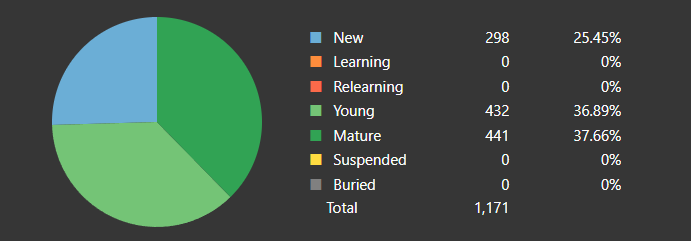
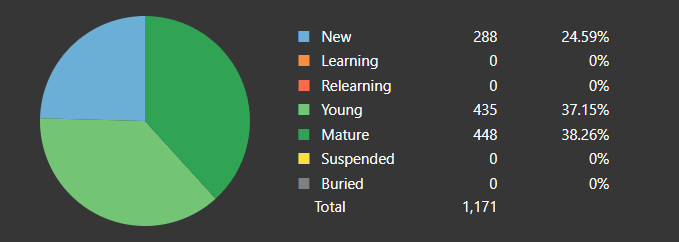
Deployed 3cc30b4 with MkDocs version: 1.5.3

diff --git a/index.html b/index.html
@@ -85,7 +85,7 @@
     <div data-md-component="skip">
       
         
-        <a href="#macro-rendering-error" class="md-skip">
+        <a href="#docjp-landing-page" class="md-skip">
           Skip to content
         </a>
       
@@ -378,6 +378,17 @@
         
       
       
+        <label class="md-nav__link md-nav__link--active" for="__toc">
+          
+  
+  <span class="md-ellipsis">
+    Home
+  </span>
+  
+
+          <span class="md-nav__icon md-icon"></span>
+        </label>
+      
       <a href="." class="md-nav__link md-nav__link--active">
         
   
@@ -387,6 +398,92 @@
   
 
       </a>
+      
+        
+
+<nav class="md-nav md-nav--secondary" aria-label="Table of contents">
+  
+  
+  
+    
+  
+  
+    <label class="md-nav__title" for="__toc">
+      <span class="md-nav__icon md-icon"></span>
+      Table of contents
+    </label>
+    <ul class="md-nav__list" data-md-component="toc" data-md-scrollfix>
+      
+        <li class="md-nav__item">
+  <a href="#anki-deck-card-counts" class="md-nav__link">
+    Anki Deck Card Counts
+  </a>
+  
+    <nav class="md-nav" aria-label="Anki Deck Card Counts">
+      <ul class="md-nav__list">
+        
+          <li class="md-nav__item">
+  <a href="#tango-n5-as-of-111123" class="md-nav__link">
+    Tango N5 as of 11/11/23
+  </a>
+  
+</li>
+        
+          <li class="md-nav__item">
+  <a href="#tango-n4-as-of-111123" class="md-nav__link">
+    Tango N4 as of 11/11/23
+  </a>
+  
+</li>
+        
+      </ul>
+    </nav>
+  
+</li>
+      
+        <li class="md-nav__item">
+  <a href="#grammar-learning" class="md-nav__link">
+    Grammar Learning
+  </a>
+  
+    <nav class="md-nav" aria-label="Grammar Learning">
+      <ul class="md-nav__list">
+        
+          <li class="md-nav__item">
+  <a href="#things-i-need-to-work-on-currently" class="md-nav__link">
+    Things I need to work on currently
+  </a>
+  
+    <nav class="md-nav" aria-label="Things I need to work on currently">
+      <ul class="md-nav__list">
+        
+          <li class="md-nav__item">
+  <a href="#grammar" class="md-nav__link">
+    Grammar
+  </a>
+  
+</li>
+        
+      </ul>
+    </nav>
+  
+</li>
+        
+          <li class="md-nav__item">
+  <a href="#jfz-book-3-lesson-page-numbers-no-directory-on-kindle" class="md-nav__link">
+    JFZ Book 3 Lesson Page Numbers (No Directory on kindle)
+  </a>
+  
+</li>
+        
+      </ul>
+    </nav>
+  
+</li>
+      
+    </ul>
+  
+</nav>
       
     </li>
   
@@ -1808,6 +1905,81 @@
     
   
   
+    <label class="md-nav__title" for="__toc">
+      <span class="md-nav__icon md-icon"></span>
+      Table of contents
+    </label>
+    <ul class="md-nav__list" data-md-component="toc" data-md-scrollfix>
+      
+        <li class="md-nav__item">
+  <a href="#anki-deck-card-counts" class="md-nav__link">
+    Anki Deck Card Counts
+  </a>
+  
+    <nav class="md-nav" aria-label="Anki Deck Card Counts">
+      <ul class="md-nav__list">
+        
+          <li class="md-nav__item">
+  <a href="#tango-n5-as-of-111123" class="md-nav__link">
+    Tango N5 as of 11/11/23
+  </a>
+  
+</li>
+        
+          <li class="md-nav__item">
+  <a href="#tango-n4-as-of-111123" class="md-nav__link">
+    Tango N4 as of 11/11/23
+  </a>
+  
+</li>
+        
+      </ul>
+    </nav>
+  
+</li>
+      
+        <li class="md-nav__item">
+  <a href="#grammar-learning" class="md-nav__link">
+    Grammar Learning
+  </a>
+  
+    <nav class="md-nav" aria-label="Grammar Learning">
+      <ul class="md-nav__list">
+        
+          <li class="md-nav__item">
+  <a href="#things-i-need-to-work-on-currently" class="md-nav__link">
+    Things I need to work on currently
+  </a>
+  
+    <nav class="md-nav" aria-label="Things I need to work on currently">
+      <ul class="md-nav__list">
+        
+          <li class="md-nav__item">
+  <a href="#grammar" class="md-nav__link">
+    Grammar
+  </a>
+  
+</li>
+        
+      </ul>
+    </nav>
+  
+</li>
+        
+          <li class="md-nav__item">
+  <a href="#jfz-book-3-lesson-page-numbers-no-directory-on-kindle" class="md-nav__link">
+    JFZ Book 3 Lesson Page Numbers (No Directory on kindle)
+  </a>
+  
+</li>
+        
+      </ul>
+    </nav>
+  
+</li>
+      
+    </ul>
+  
 </nav>
                   </div>
                 </div>
@@ -1821,76 +1993,94 @@
                   
 
 
-<h1 id="macro-rendering-error"><em>Macro Rendering Error</em><a class="headerlink" href="#macro-rendering-error" title="Permanent link">&para;</a></h1>
-<p><em>File</em>: <code>index.md</code></p>
-<p><em>URLError</em>: <urlopen error [WinError 10061] No connection could be made because the target machine actively refused it></p>
-<div class="highlight"><pre><span></span><code>Traceback (most recent call last):
-  File &quot;C:\Users\Tyler\AppData\Local\Programs\Python\Python311\Lib\urllib\request.py&quot;, line 1348, in do_open
-    h.request(req.get_method(), req.selector, req.data, headers,
-  File &quot;C:\Users\Tyler\AppData\Local\Programs\Python\Python311\Lib\http\client.py&quot;, line 1286, in request
-    self._send_request(method, url, body, headers, encode_chunked)
-  File &quot;C:\Users\Tyler\AppData\Local\Programs\Python\Python311\Lib\http\client.py&quot;, line 1332, in _send_request
-    self.endheaders(body, encode_chunked=encode_chunked)
-  File &quot;C:\Users\Tyler\AppData\Local\Programs\Python\Python311\Lib\http\client.py&quot;, line 1281, in endheaders
-    self._send_output(message_body, encode_chunked=encode_chunked)
-  File &quot;C:\Users\Tyler\AppData\Local\Programs\Python\Python311\Lib\http\client.py&quot;, line 1041, in _send_output
-    self.send(msg)
-  File &quot;C:\Users\Tyler\AppData\Local\Programs\Python\Python311\Lib\http\client.py&quot;, line 979, in send
-    self.connect()
-  File &quot;C:\Users\Tyler\AppData\Local\Programs\Python\Python311\Lib\http\client.py&quot;, line 945, in connect
-    self.sock = self._create_connection(
-                ^^^^^^^^^^^^^^^^^^^^^^^^
-  File &quot;C:\Users\Tyler\AppData\Local\Programs\Python\Python311\Lib\socket.py&quot;, line 851, in create_connection
-    raise exceptions[0]
-  File &quot;C:\Users\Tyler\AppData\Local\Programs\Python\Python311\Lib\socket.py&quot;, line 836, in create_connection
-    sock.connect(sa)
-ConnectionRefusedError: [WinError 10061] No connection could be made because the target machine actively refused it
-
-During handling of the above exception, another exception occurred:
-
-Traceback (most recent call last):
-  File &quot;C:\Users\Tyler\AppData\Local\Programs\Python\Python311\Lib\site-packages\mkdocs_macros\plugin.py&quot;, line 527, in render
-    return md_template.render(**page_variables)
-           ^^^^^^^^^^^^^^^^^^^^^^^^^^^^^^^^^^^^
-  File &quot;C:\Users\Tyler\AppData\Local\Programs\Python\Python311\Lib\site-packages\jinja2\environment.py&quot;, line 1301, in render
-    self.environment.handle_exception()
-  File &quot;C:\Users\Tyler\AppData\Local\Programs\Python\Python311\Lib\site-packages\jinja2\environment.py&quot;, line 936, in handle_exception
-    raise rewrite_traceback_stack(source=source)
-  File &quot;&lt;template&gt;&quot;, line 7, in top-level template code
-  File &quot;C:\appdev\doc.jp\main\__init__.py&quot;, line 18, in n5_card_counts
-    return f&#39;**{tango_n5_deck.get_total_known_cards()}** vocabulary words known with **{tango_n5_deck.get_new_cards()}** new cards remaining&#39;
-                ^^^^^^^^^^^^^^^^^^^^^^^^^^^^^^^^^^^^^
-  File &quot;C:\appdev\doc.jp\main\anki_stats\anki_cards.py&quot;, line 15, in get_total_known_cards
-    card_stats = self.__get_card_statistics()
-                 ^^^^^^^^^^^^^^^^^^^^^^^^^^^^
-  File &quot;C:\appdev\doc.jp\main\anki_stats\anki_cards.py&quot;, line 11, in __get_card_statistics
-    anki_cards = self.__get_cards()
-                 ^^^^^^^^^^^^^^^^^^
-  File &quot;C:\appdev\doc.jp\main\anki_stats\anki_cards.py&quot;, line 8, in __get_cards
-    return invoke_anki_request(&#39;findCards&#39;, query=f&#39;deck:{self.deck_name}&#39;)
-           ^^^^^^^^^^^^^^^^^^^^^^^^^^^^^^^^^^^^^^^^^^^^^^^^^^^^^^^^^^^^^^^^
-  File &quot;C:\appdev\doc.jp\main\anki_stats\anki_util.py&quot;, line 9, in invoke_anki_request
-    response = json.load(urllib.request.urlopen(urllib.request.Request(&#39;http://127.0.0.1:8765&#39;, requestJson)))
-                         ^^^^^^^^^^^^^^^^^^^^^^^^^^^^^^^^^^^^^^^^^^^^^^^^^^^^^^^^^^^^^^^^^^^^^^^^^^^^^^^^^^^^
-  File &quot;C:\Users\Tyler\AppData\Local\Programs\Python\Python311\Lib\urllib\request.py&quot;, line 216, in urlopen
-    return opener.open(url, data, timeout)
-           ^^^^^^^^^^^^^^^^^^^^^^^^^^^^^^^
-  File &quot;C:\Users\Tyler\AppData\Local\Programs\Python\Python311\Lib\urllib\request.py&quot;, line 519, in open
-    response = self._open(req, data)
-               ^^^^^^^^^^^^^^^^^^^^^
-  File &quot;C:\Users\Tyler\AppData\Local\Programs\Python\Python311\Lib\urllib\request.py&quot;, line 536, in _open
-    result = self._call_chain(self.handle_open, protocol, protocol +
-             ^^^^^^^^^^^^^^^^^^^^^^^^^^^^^^^^^^^^^^^^^^^^^^^^^^^^^^^
-  File &quot;C:\Users\Tyler\AppData\Local\Programs\Python\Python311\Lib\urllib\request.py&quot;, line 496, in _call_chain
-    result = func(*args)
-             ^^^^^^^^^^^
-  File &quot;C:\Users\Tyler\AppData\Local\Programs\Python\Python311\Lib\urllib\request.py&quot;, line 1377, in http_open
-    return self.do_open(http.client.HTTPConnection, req)
-           ^^^^^^^^^^^^^^^^^^^^^^^^^^^^^^^^^^^^^^^^^^^^^
-  File &quot;C:\Users\Tyler\AppData\Local\Programs\Python\Python311\Lib\urllib\request.py&quot;, line 1351, in do_open
-    raise URLError(err)
-urllib.error.URLError: &lt;urlopen error [WinError 10061] No connection could be made because the target machine actively refused it&gt;
-</code></pre></div>
+<h1 id="docjp-landing-page">doc.jp Landing Page<a class="headerlink" href="#docjp-landing-page" title="Permanent link">&para;</a></h1>
+<h2 id="anki-deck-card-counts">Anki Deck Card Counts<a class="headerlink" href="#anki-deck-card-counts" title="Permanent link">&para;</a></h2>
+<h3 id="tango-n5-as-of-111123">Tango N5 as of 11/11/23<a class="headerlink" href="#tango-n5-as-of-111123" title="Permanent link">&para;</a></h3>
+<p><strong>883</strong> vocabulary words known with <strong>288</strong> new cards remaining </p>
+<ul>
+<li>On track to finish all new cards on <strong>12/10/23</strong> doing <strong>10</strong> new cards a day.</li>
+</ul>
+<p><img align="center" alt="Card Counts" src="assets/anki-stats/n5-card-counts.png" /></p>
+<h3 id="tango-n4-as-of-111123">Tango N4 as of 11/11/23<a class="headerlink" href="#tango-n4-as-of-111123" title="Permanent link">&para;</a></h3>
+<p><strong>0</strong> vocabulary words known with <strong>917</strong> new cards remaining: Haven't started this deck yet.</p>
+<p><img align="center" alt="Card Counts" src="assets/anki-stats/n4-card-counts.png" /></p>
+<h2 id="grammar-learning">Grammar Learning<a class="headerlink" href="#grammar-learning" title="Permanent link">&para;</a></h2>
+<h3 id="things-i-need-to-work-on-currently">Things I need to work on currently<a class="headerlink" href="#things-i-need-to-work-on-currently" title="Permanent link">&para;</a></h3>
+<h4 id="grammar">Grammar<a class="headerlink" href="#grammar" title="Permanent link">&para;</a></h4>
+<ul>
+<li>~ている: is, Am, Are (~ing)</li>
+<li>はじめる: to start; to begin</li>
+<li>たい: want to do (I keep messing up the negative form)</li>
+<li>と: quotation</li>
+</ul>
+<h3 id="jfz-book-3-lesson-page-numbers-no-directory-on-kindle">JFZ Book 3 Lesson Page Numbers (No Directory on kindle)<a class="headerlink" href="#jfz-book-3-lesson-page-numbers-no-directory-on-kindle" title="Permanent link">&para;</a></h3>
+<ul>
+<li>Lesson 1:<ul>
+<li>Starts: 9</li>
+<li>Workbook: 21</li>
+</ul>
+</li>
+<li>Lesson 2:<ul>
+<li>Starts: 49</li>
+<li>Workbook: 52</li>
+</ul>
+</li>
+<li>Lesson 3:<ul>
+<li>Starts: 53</li>
+<li>Workbook: 63</li>
+</ul>
+</li>
+<li>Lesson 4:<ul>
+<li>Starts: 75</li>
+<li>Workbook: 84</li>
+</ul>
+</li>
+<li>Lesson 5:<ul>
+<li>Starts: 97</li>
+<li>Workbook: 105</li>
+</ul>
+</li>
+<li>Lesson 6:<ul>
+<li>Starts: 117</li>
+<li>Workbook: 127</li>
+</ul>
+</li>
+<li>Lesson 7:<ul>
+<li>Starts: 141</li>
+<li>Workbook: 148</li>
+</ul>
+</li>
+<li>Lesson 8:<ul>
+<li>Starts: 159</li>
+<li>Workbook: 167</li>
+</ul>
+</li>
+<li>Lesson 9:<ul>
+<li>Starts: 177</li>
+<li>Workbook: 187</li>
+</ul>
+</li>
+<li>Lesson 10:<ul>
+<li>Starts: 201</li>
+<li>Workbook: 209</li>
+</ul>
+</li>
+<li>Lesson 11:<ul>
+<li>Starts: 219</li>
+<li>Workbook: 228</li>
+</ul>
+</li>
+<li>Lesson 12:<ul>
+<li>Starts: 239</li>
+<li>Workbook: 246</li>
+</ul>
+</li>
+<li>Lesson 13:<ul>
+<li>Starts: 257</li>
+<li>Workbook: 266</li>
+</ul>
+</li>
+</ul>
 
 
 
